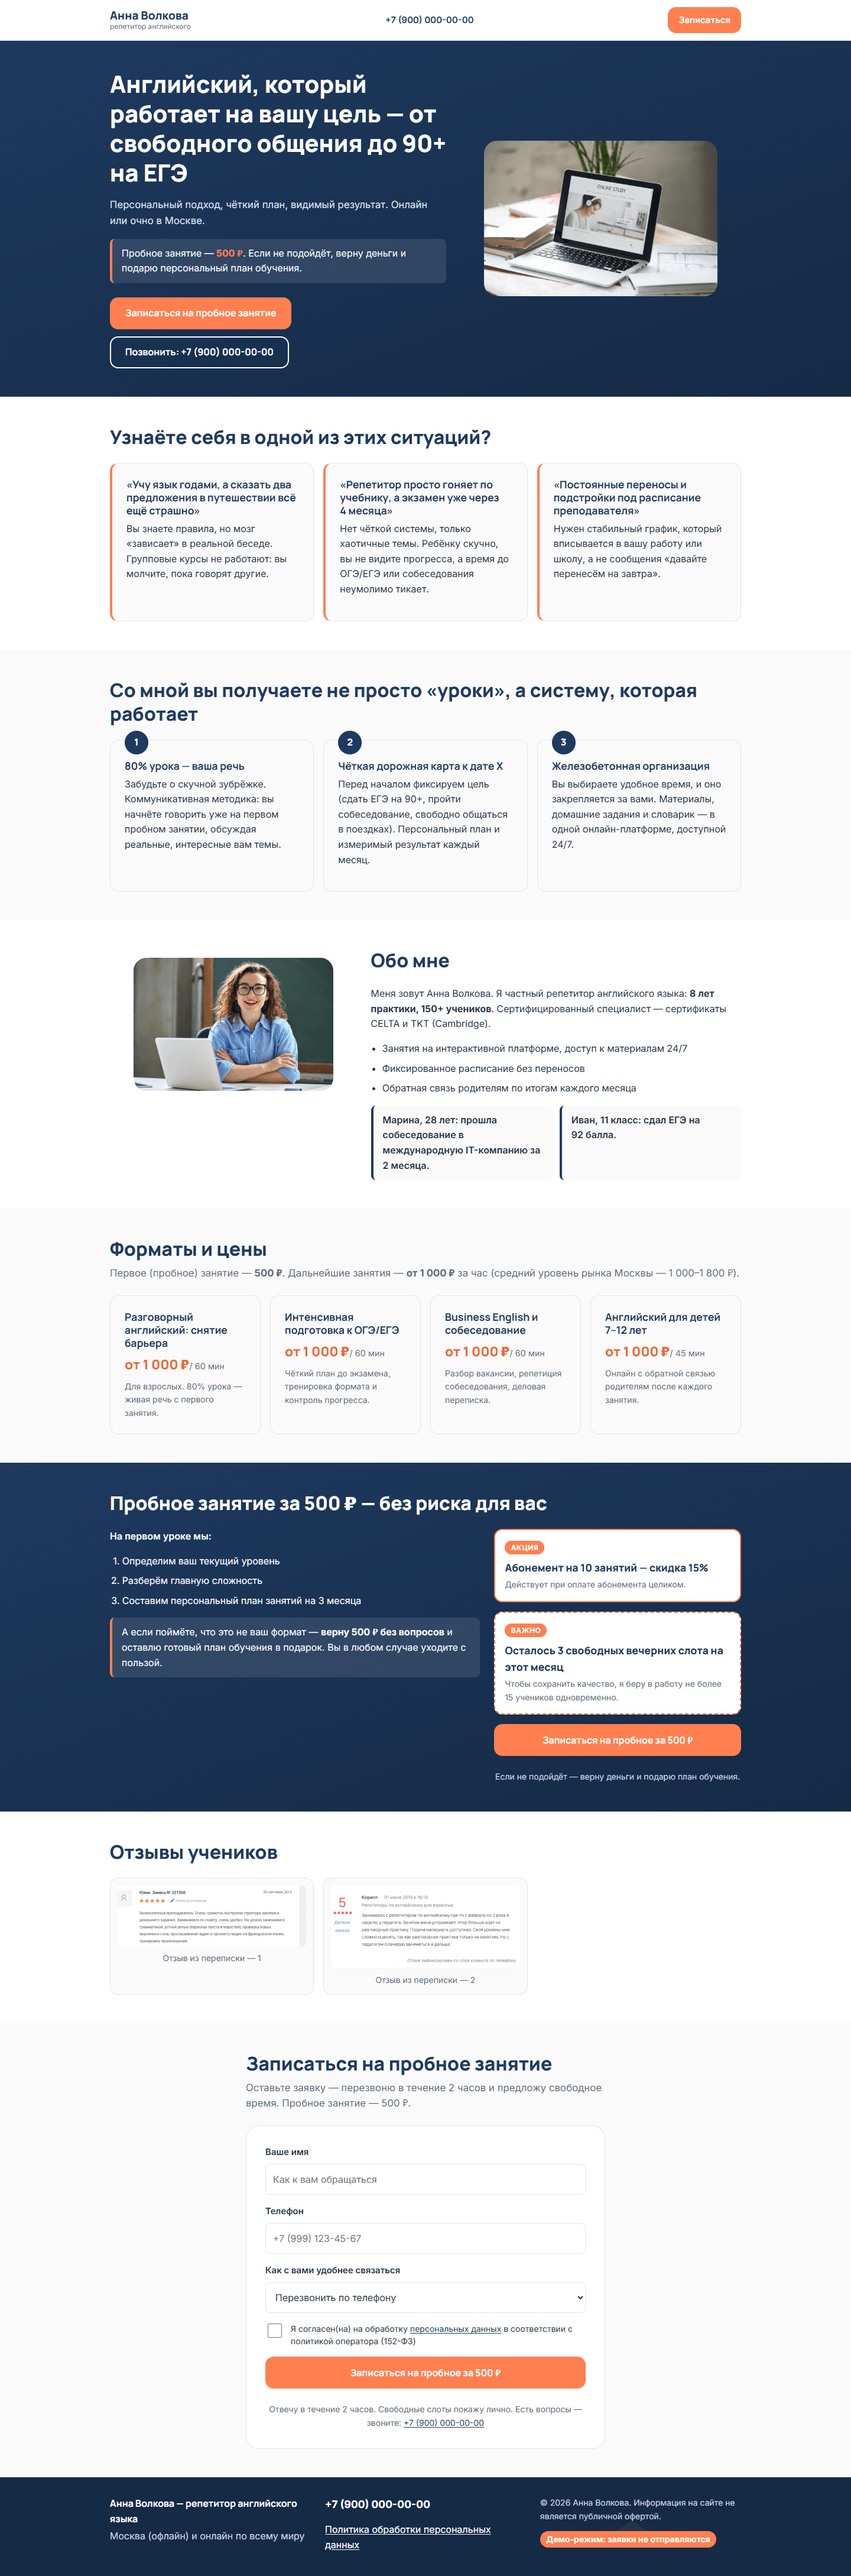
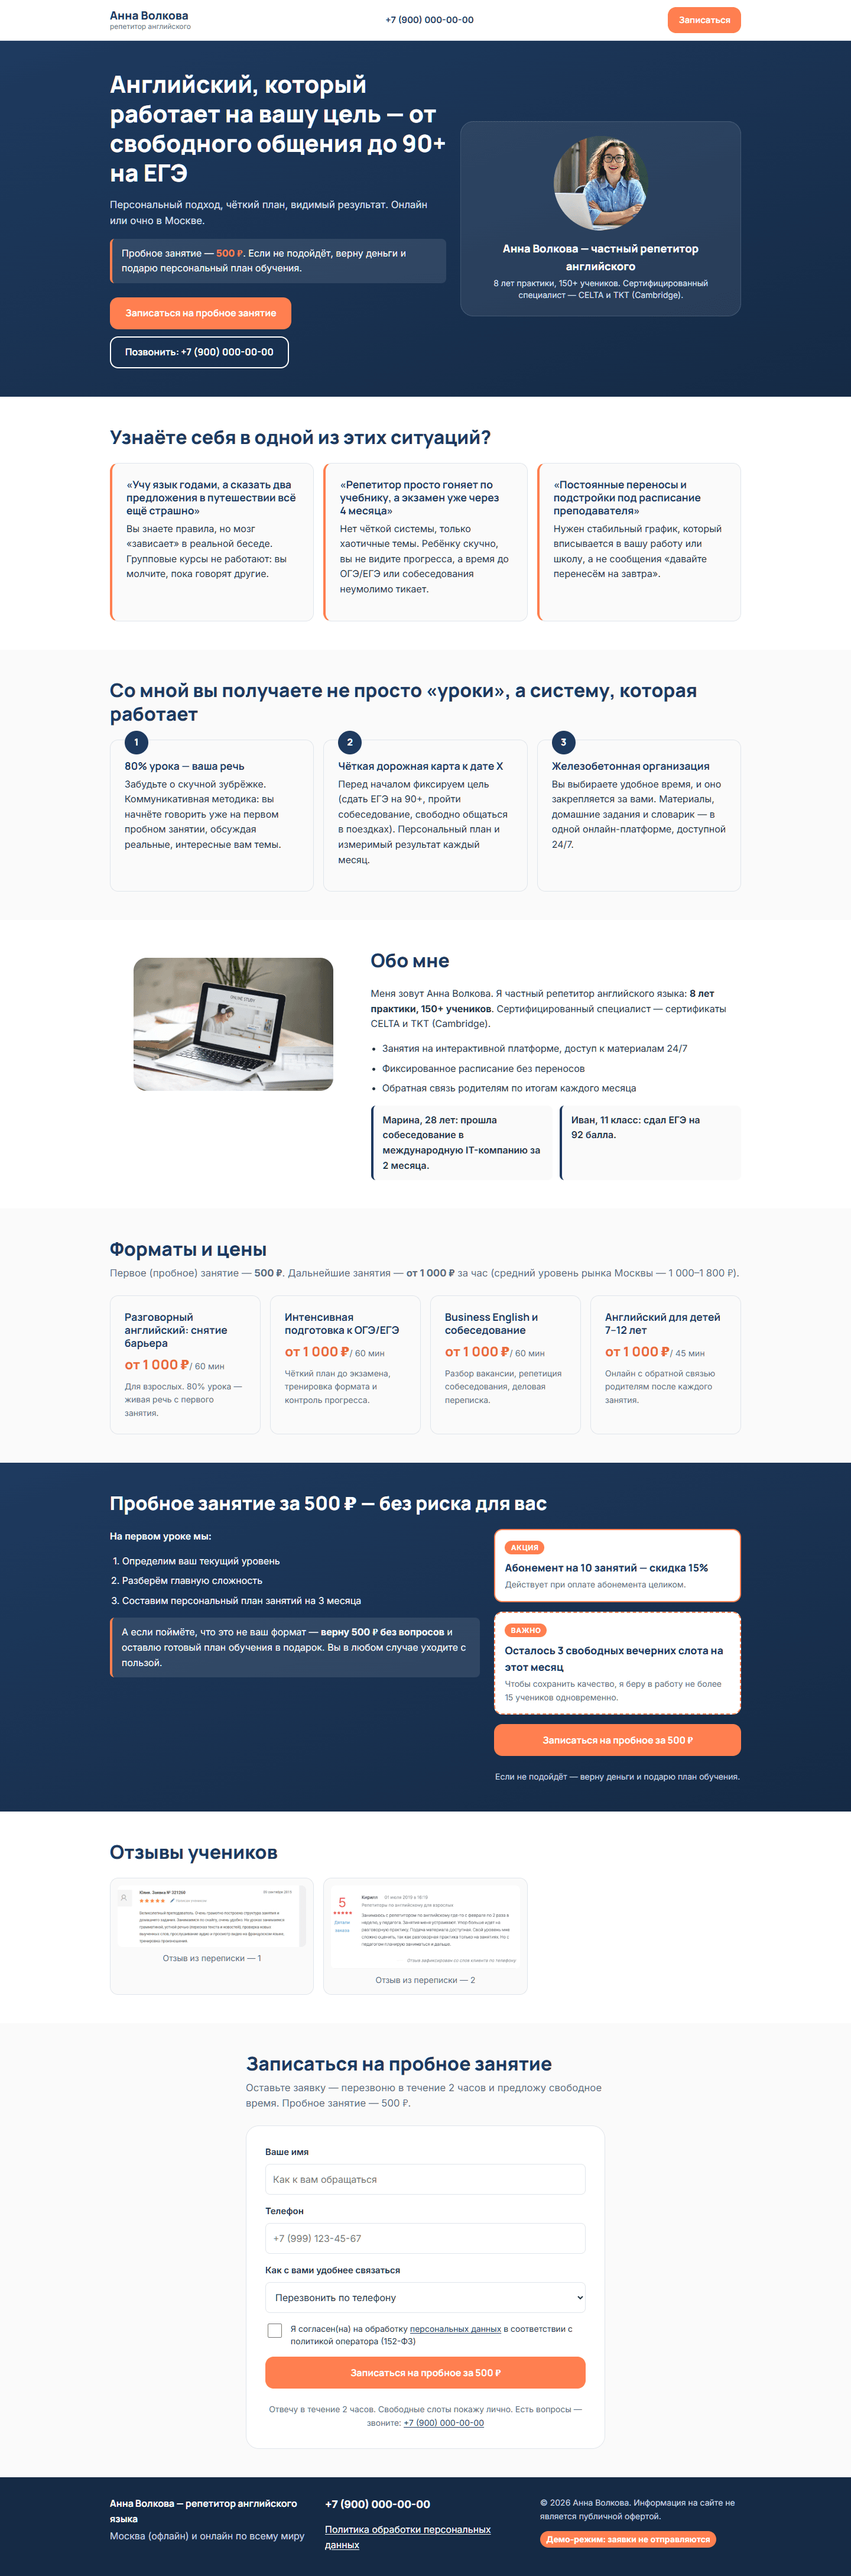
feat: первый экран — фото и описание преподавателя (карточка hero), все ключевые тексты сохранены

Changed region(s): [[0.5625, 0.0312, 0.8438, 0.1249], [0.1562, 0.3746, 0.4062, 0.437]]

diff --git a/index.html b/index.html
@@ -35,7 +35,11 @@
           </div>
         </div>
         <figure class="hero-figure">
-          <img src="images/study-desk.webp" alt="Рабочее место для онлайн-занятия английским: ноутбук и конспект" width="1200" height="800" loading="eager">
+          <img src="images/portrait.webp" alt="Портрет репетитора Анны Волковой" width="800" height="533" loading="eager">
+          <figcaption class="hero-teacher">
+            <p class="hero-teacher-name">Анна Волкова — частный репетитор английского</p>
+            <p class="hero-teacher-desc">8 лет практики, 150+ учеников. Сертифицированный специалист&nbsp;— CELTA и TKT (Cambridge).</p>
+          </figcaption>
         </figure>
       </div>
     </section>
@@ -89,7 +93,7 @@
     <section class="section section-alt" aria-labelledby="about-title">
       <div class="container about-grid">
         <figure class="about-figure">
-          <img src="images/portrait.webp" alt="Портрет репетитора Анны Волковой" width="800" height="533" loading="lazy">
+          <img src="images/study-desk.webp" alt="Рабочее место для онлайн-занятия английским: ноутбук и конспект" width="1200" height="800" loading="lazy">
         </figure>
         <div class="about-text">
           <h2 id="about-title">Обо мне</h2>

diff --git a/css/style.css b/css/style.css
@@ -282,9 +282,44 @@ a:hover { color: var(--color-accent-dark); }
   color: var(--color-primary);
 }
 
-.hero-figure img {
+.hero-figure {
+  margin: 0;
+  display: flex;
+  align-items: center;
+  gap: var(--space-3);
+  order: -1;
+  background: rgba(255, 255, 255, 0.08);
+  border: 1px solid rgba(255, 255, 255, 0.14);
   border-radius: var(--radius-lg);
-  width: 100%;
+  padding: var(--space-3);
+}
+
+.hero-figure img {
+  width: 88px;
+  height: 88px;
+  flex: 0 0 88px;
+  object-fit: cover;
+  border-radius: 50%;
+}
+
+.hero-teacher {
+  margin: 0;
+  min-width: 0;
+}
+
+.hero-teacher-name {
+  margin: 0 0 var(--space-1);
+  font-family: var(--font-heading);
+  font-weight: 800;
+  font-size: 1rem;
+  color: #ffffff;
+}
+
+.hero-teacher-desc {
+  margin: 0;
+  font-size: var(--font-small);
+  line-height: 1.45;
+  color: #dbe4ef;
 }
 
 /* --- Секции --- */
@@ -737,6 +772,25 @@ a:hover { color: var(--color-accent-dark); }
     grid-template-columns: 1.2fr 1fr;
     align-items: center;
   }
+
+  .hero-figure {
+    order: 0;
+    flex-direction: column;
+    align-items: flex-start;
+    gap: var(--space-4);
+    padding: var(--space-5);
+  }
+
+  .hero-figure img {
+    width: 160px;
+    height: 160px;
+    flex: none;
+    align-self: center;
+  }
+
+  .hero-teacher-name { font-size: 1.15rem; text-align: center; align-self: stretch; }
+
+  .hero-teacher-desc { text-align: center; }
 
   .about-grid {
     grid-template-columns: 2fr 3fr;

diff --git a/ACCEPTANCE_CHECKLIST.md b/ACCEPTANCE_CHECKLIST.md
@@ -10,10 +10,10 @@
 
 | # | Проверка | Статус |
 |---|----------|--------|
-| 1.1 | Первый экран: H1, оффер «Пробное 500 ₽», кнопка записи, телефон | ✓ |
+| 1.1 | Первый экран: фото и описание преподавателя, H1, оффер «Пробное 500 ₽», кнопка записи, телефон | ✓ |
 | 1.2 | Секция болей клиента (3 ситуации) | ✓ |
 | 1.3 | Секция решений / системный подход (3 пункта) | ✓ |
-| 1.4 | «Обо мне»: фото, кейсы (Марина, Иван), CELTA/TKT, 8 лет, 150+ | ✓ |
+| 1.4 | «Обо мне»: кейсы (Марина, Иван), чек-лист, CELTA/TKT, 8 лет, 150+ | ✓ |
 | 1.5 | Форматы и цены: 4 позиции, пробное 500 ₽, от 1 000 ₽ | ✓ |
 | 1.6 | Оффер: возврат 500 ₽, акция «абонемент на 10 занятий −15%», 3 слота | ✓ |
 | 1.7 | Отзывы: 2 реальных скриншота (Отзыв 1, Отзыв 2) | ✓ |

diff --git a/README.md b/README.md
@@ -39,7 +39,7 @@
 
 Секции сверху вниз:
 
-1. **Первый экран** — H1, оффер «Пробное 500 ₽», кнопка записи, телефон.
+1. **Первый экран** — фото и краткое описание преподавателя (Анна Волкова, CELTA/TKT), H1, оффер «Пробное 500 ₽», кнопка записи, телефон.
 2. **Боли клиента** — 3 ситуации.
 3. **Решения** — системный подход, 3 пункта.
 4. **Обо мне** — фото, кейсы, сертификаты (CELTA/TKT).
